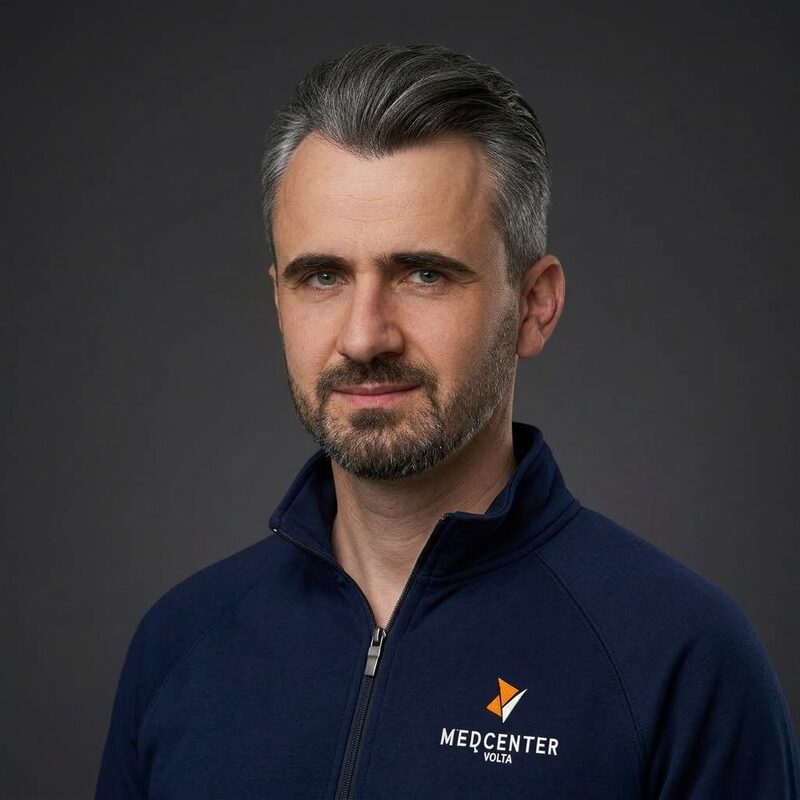
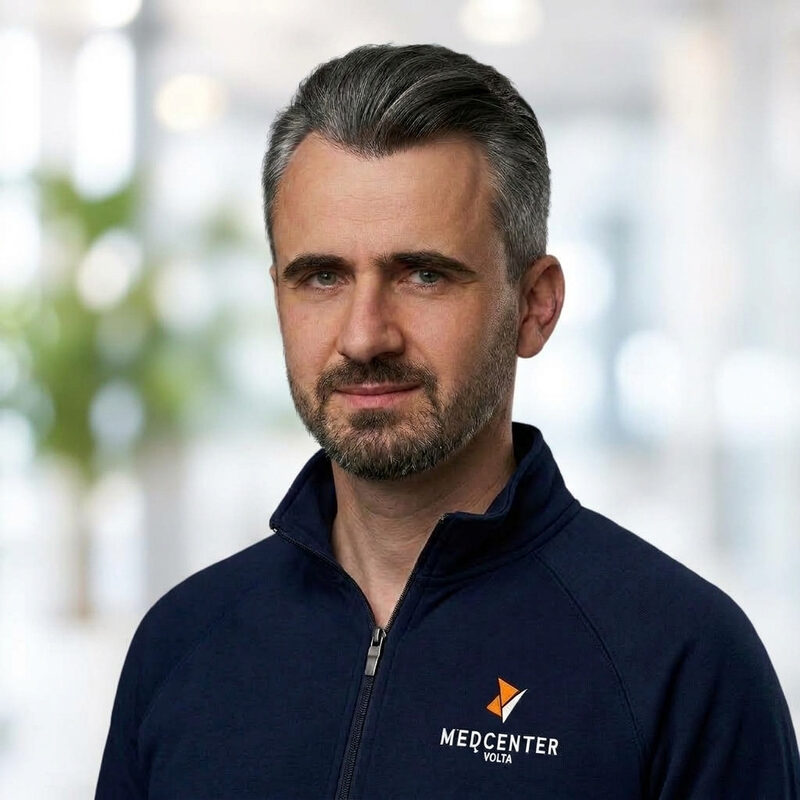
Neues Foto von Dr. Mallisho
Claude-Session: https://claude.ai/code/session_01X5VRoP68YmvtuZtS139WmW

diff --git a/team.html b/team.html
@@ -83,7 +83,7 @@
 
         <div class="team-grid">
           <article class="person">
-            <a class="person-link" href="arzt-mallisho.html"><div class="media media-portrait"><img src="img/team-mallisho.jpg" alt="Dr. Amjad Mallisho" width="800" height="800" loading="lazy"></div>
+            <a class="person-link" href="arzt-mallisho.html"><div class="media media-portrait"><img src="img/team-mallisho.jpg?v=2" alt="Dr. Amjad Mallisho" width="800" height="800" loading="lazy"></div>
             <h3>Dr. Amjad Mallisho</h3></a>
             <p class="role">Facharzt Physikalische Medizin und Rehabilitation<br>Facharzt Allgemeine Innere Medizin</p>
             <ul>

diff --git a/index.html b/index.html
@@ -190,7 +190,7 @@
         </div>
         <div class="doctor-row">
           <figure><a class="person-link" href="arzt-mallisho.html">
-            <div class="media media-portrait"><img src="img/team-mallisho.jpg" alt="Dr. Amjad Mallisho" width="800" height="800" loading="lazy"></div>
+            <div class="media media-portrait"><img src="img/team-mallisho.jpg?v=2" alt="Dr. Amjad Mallisho" width="800" height="800" loading="lazy"></div>
             <figcaption>Dr. Amjad Mallisho</figcaption>
           </a></figure>
           <figure><a class="person-link" href="arzt-keser.html">

diff --git a/arzt-mallisho.html b/arzt-mallisho.html
@@ -67,7 +67,7 @@
   <main id="inhalt">
     <section class="page-hero">
       <div class="container profile-hero">
-        <div class="media media-portrait profile-photo"><img src="img/team-mallisho.jpg" alt="Dr. Amjad Mallisho" width="800" height="800"></div>
+        <div class="media media-portrait profile-photo"><img src="img/team-mallisho.jpg?v=2" alt="Dr. Amjad Mallisho" width="800" height="800"></div>
         <div>
           <a class="back-link" href="team.html">← Zum ganzen Team</a>
           <h1>Dr. Amjad Mallisho</h1>
